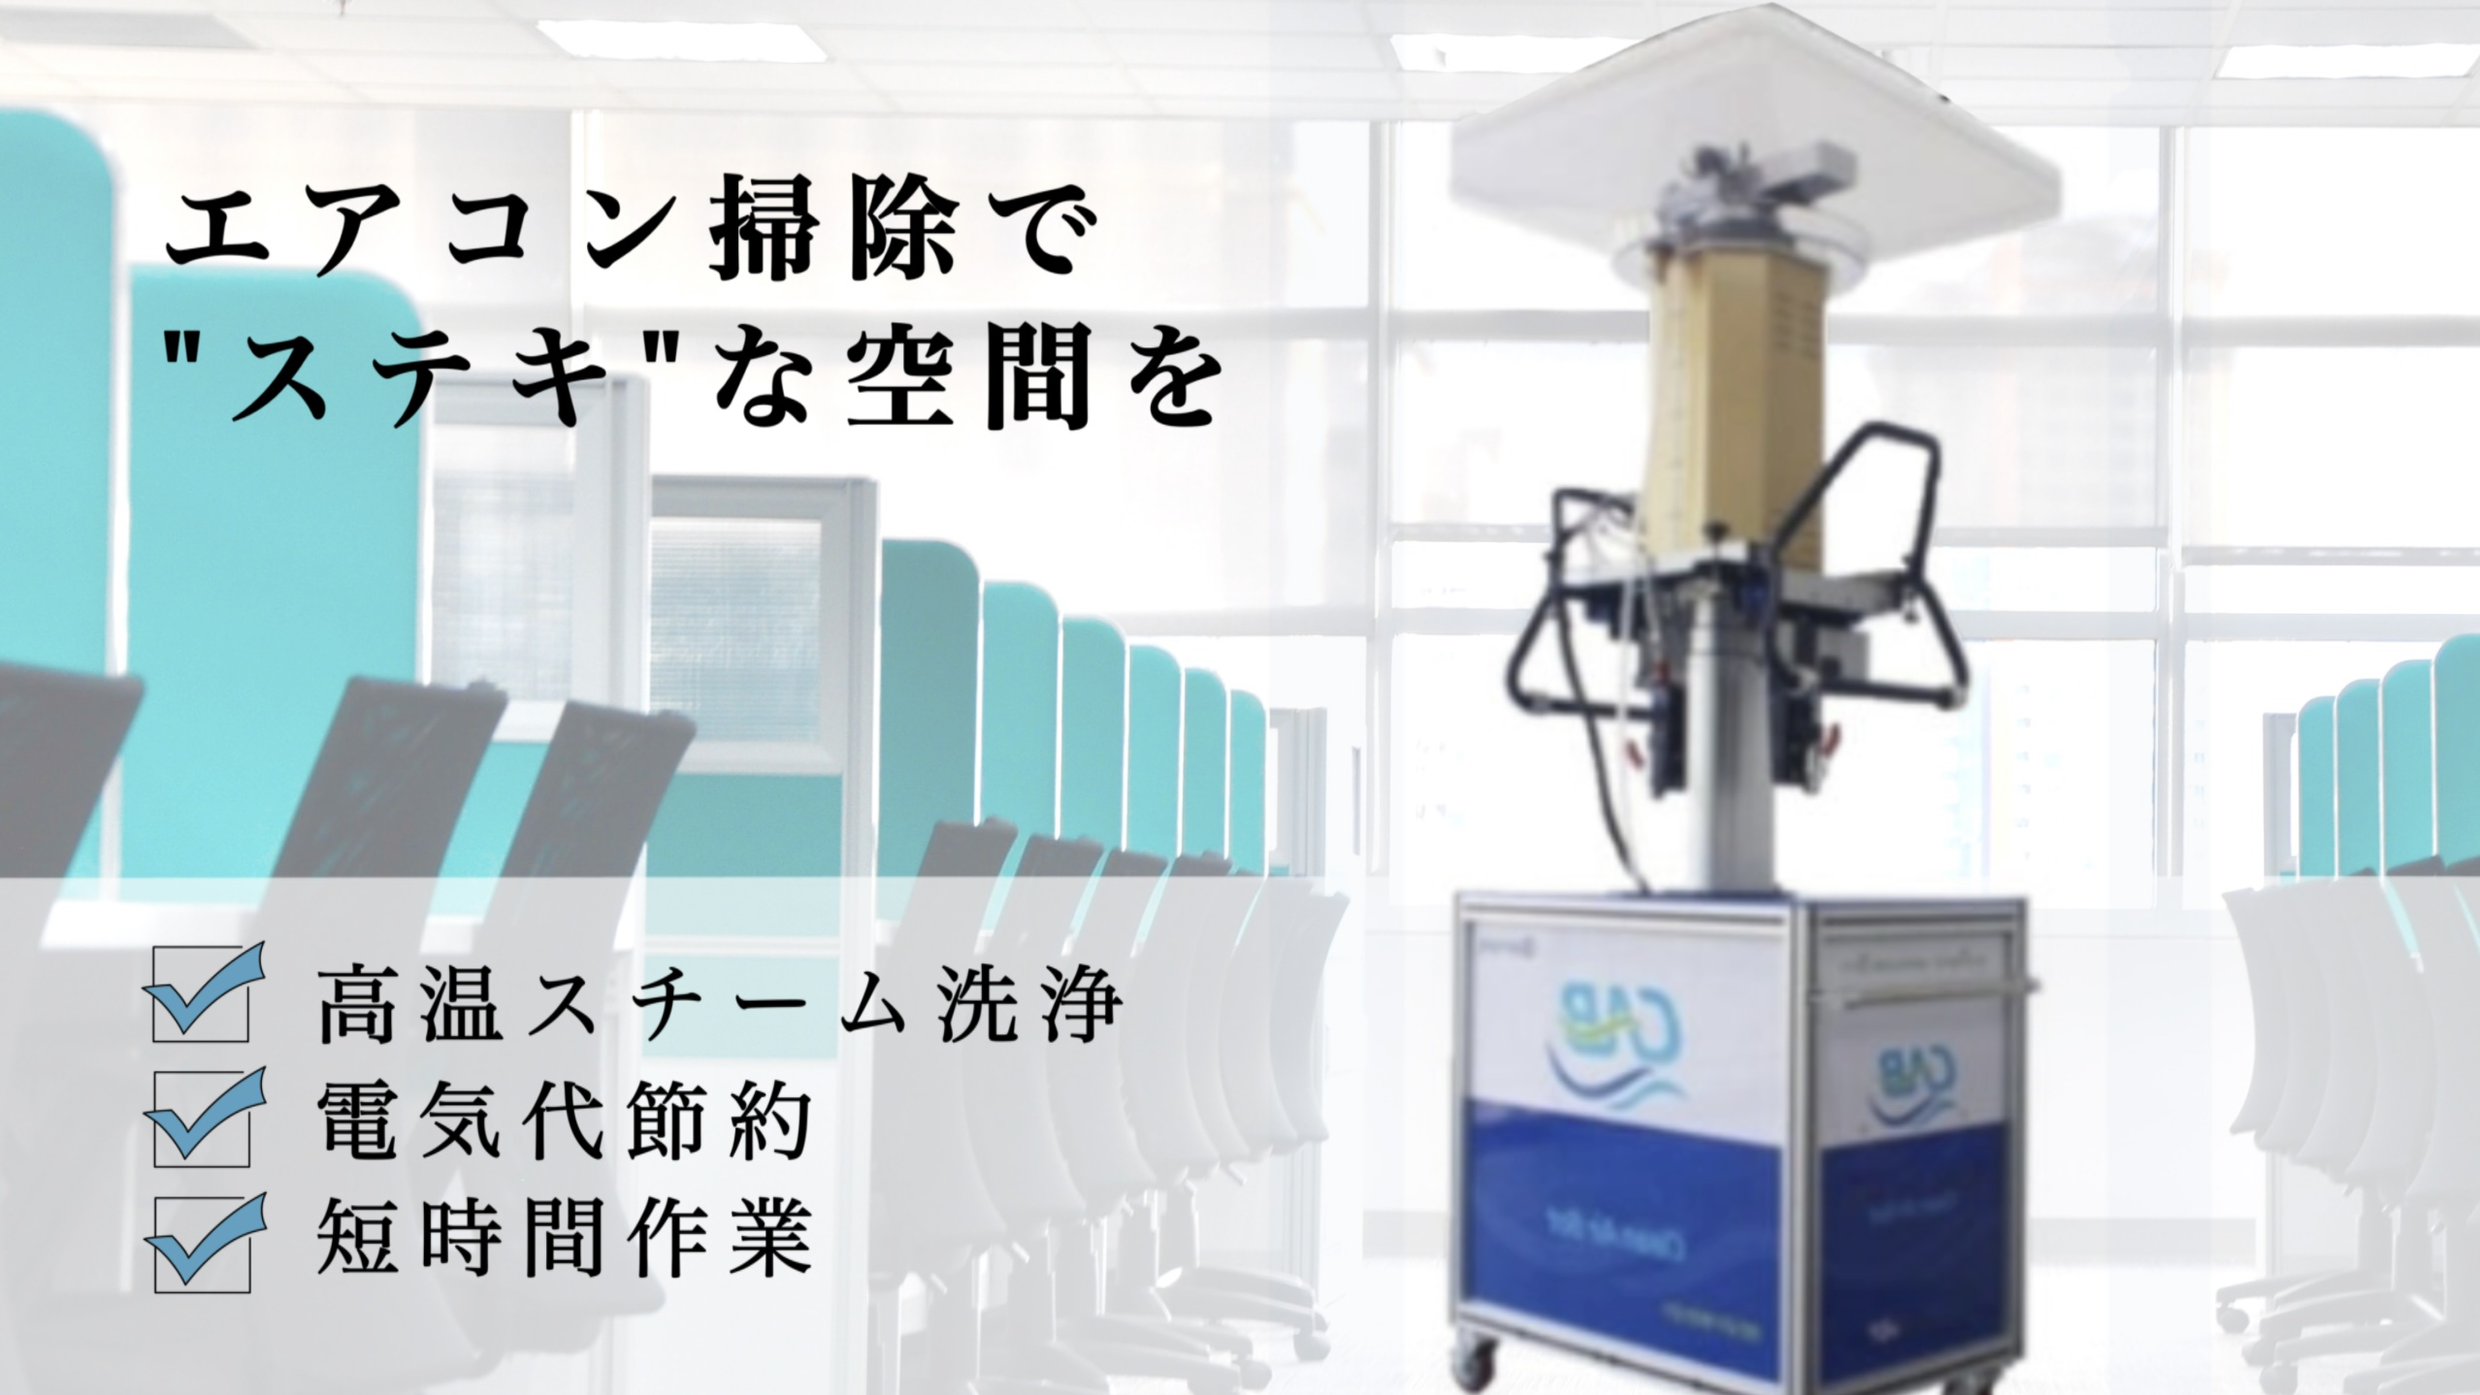
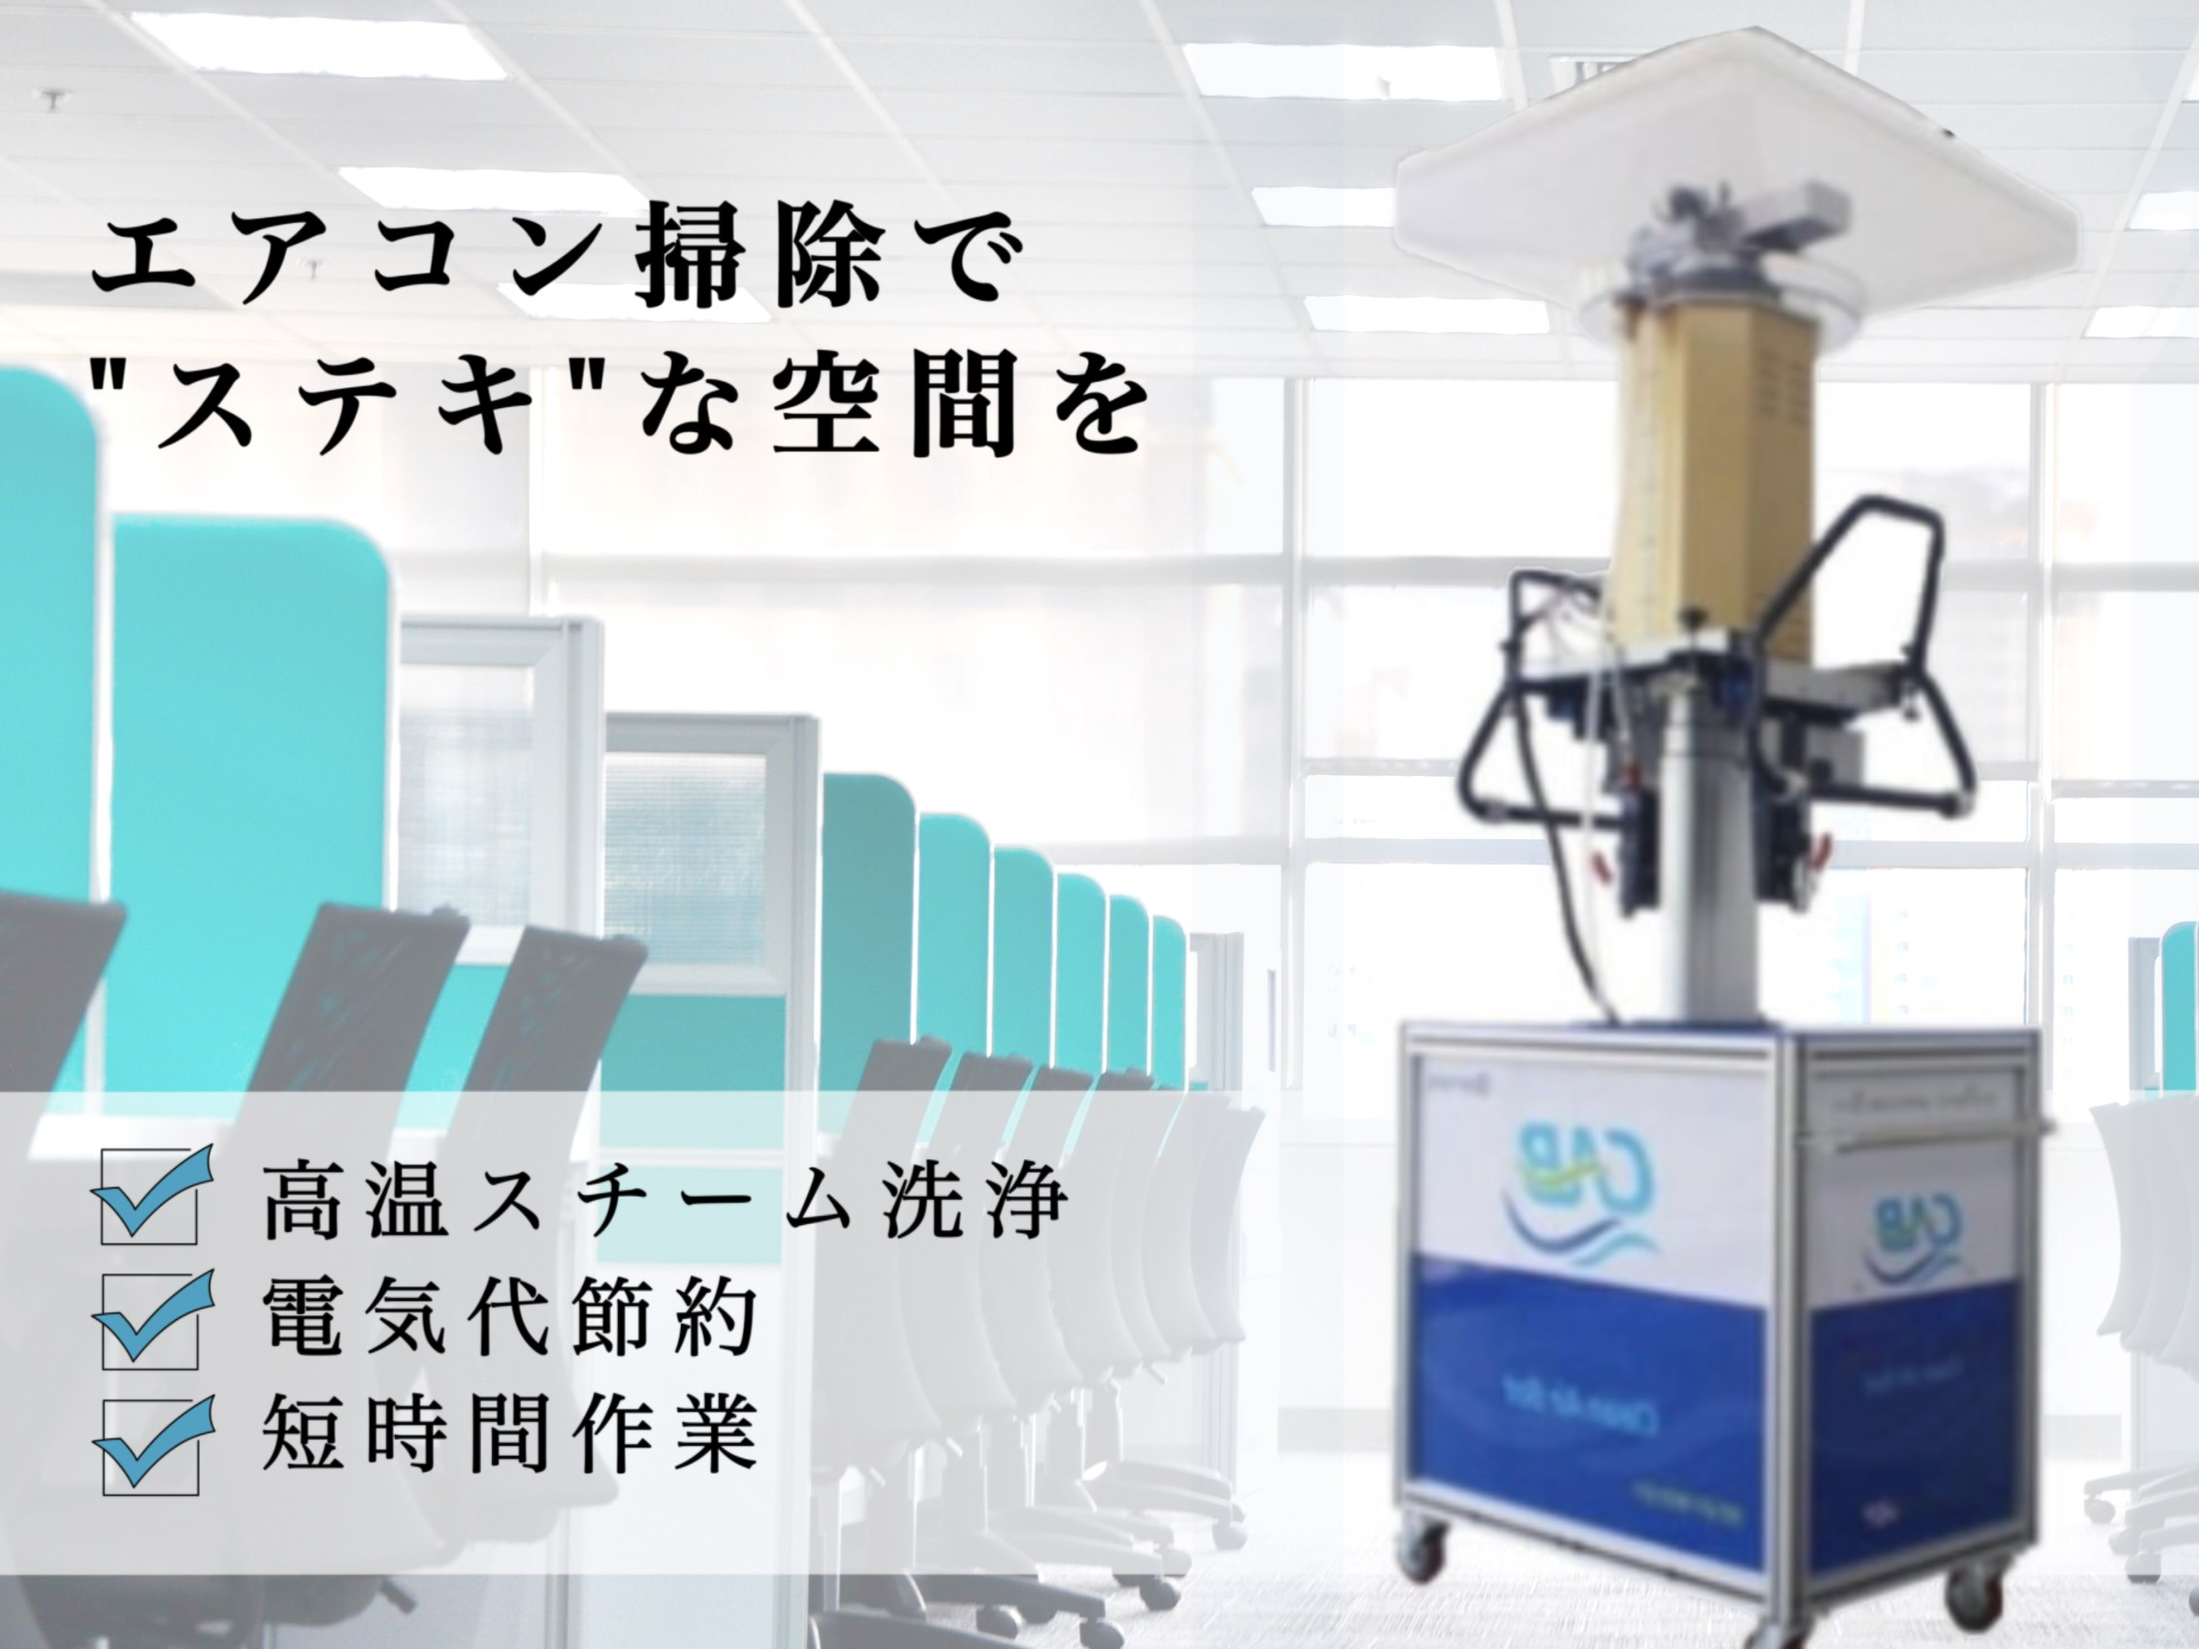
Add files via upload

diff --git a/style.css b/style.css
@@ -24,7 +24,7 @@ h2{
 h3{
   margin: 0;
   font-weight: bold;
-  font-size: 32px;
+  font-size: 28px;
   letter-spacing: 1px;
   color: #005ab4;
 }
@@ -143,12 +143,15 @@ header a:hover{
   padding: 8px 8px;
 } */
 
-.hero{
+.hero-0{
   display: block;
   margin: 80px auto 0;
-  max-width: 1600px;
   width: 100%;
   height: auto;
+}
+
+.hero-4{
+  display: none;
 }
 
 /* catch */
@@ -181,7 +184,7 @@ header a:hover{
 
 /* main */
 #main{
-  background-image: url(背景-1.png);
+  background-image: url(img/背景-1.png);
   background-repeat: no-repeat;
   background-position: top;
 }
@@ -203,7 +206,7 @@ header a:hover{
 /* merit */
 #merit{
   background: rgb(61, 107, 175);
-  background-image: url(背景-3.png);
+  background-image: url(img/背景-3.png);
   background-repeat: no-repeat;
   background-position: top;
   color: white;
@@ -219,7 +222,7 @@ header a:hover{
 
 /* sub */
 #sub{
-  background-image: url(背景-2.png);
+  background-image: url(img/背景-2.png);
   background-repeat: no-repeat;
   background-position: top;
 }
@@ -231,7 +234,7 @@ header a:hover{
 /* processes */
 #processes{
   background: rgb(227, 240, 255);
-  background-image: url(背景-3.png);
+  background-image: url(img/背景-3.png);
   background-repeat: no-repeat;
   background-position: top;
 }
@@ -266,7 +269,7 @@ header a:hover{
 
 /* menu */
 #menu{
-  background-image: url(背景-1.png);
+  background-image: url(img/背景-1.png);
   background-repeat: no-repeat;
   background-position: top;
 }
@@ -296,7 +299,7 @@ table th, table td{
 /* inquiry */
 #inquiry{
   background: rgb(61, 107, 175);
-  background-image: url(背景-3.png);
+  background-image: url(img/背景-3.png);
   background-repeat: no-repeat;
   background-position: top;
   box-sizing: border-box;
@@ -404,10 +407,23 @@ footer{
 
   /* hero */
 
-  .hero div{
+  .hero-4{
+    display: block;
+    margin: 80px auto 0;
+    max-width: 1280px;
+    width: 100%;
+    height: auto;
+  }
+  
+  .hero-0{
+    display: none;
+  }
+  
+
+  /* .hero div{
     position: absolute;
     top: 15%;
     left: 8%;
     padding: 32px;
-  }
+  } */
 }

diff --git a/main.js b/main.js
@@ -16,7 +16,7 @@
 
   window.addEventListener('scroll', () => {
     secElements.forEach(secElement => {
-      if (secElement.getBoundingClientRect().top < window.innerHeight * 0.7) {
+      if (secElement.getBoundingClientRect().top < window.innerHeight * 0.8) {
         secElement.classList.add('fadein');
       }
     })

diff --git a/index.html b/index.html
@@ -26,7 +26,8 @@
     </div>
   </div> -->
 
-  <img src="img/hero.jpg" class="hero">
+  <img src="img/hero.jpg" class="hero-0">
+  <img src="img/hero-4.jpg" class="hero-4">
 
   <div id="catch">
     <section>
